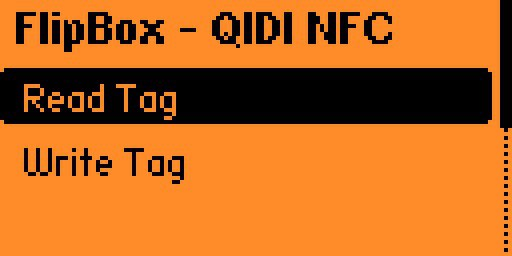
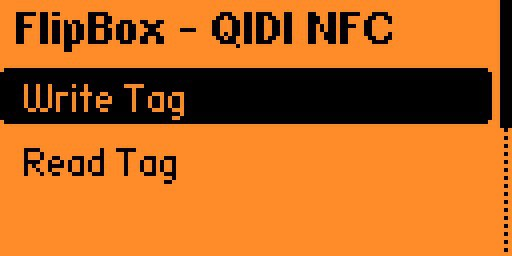
Fix menu order, restore full labels, bump to 0.1.1
- Write Tag first in main menu
- Restore "Material" / "Write Tag" labels in write config
- Bump fap_version 0.1.0 -> 0.1.1

Changed region(s): [[0.0312, 0.5625, 0.375, 0.7188], [0.0312, 0.3125, 0.375, 0.4688]]

diff --git a/scenes/scene_write_cfg.c b/scenes/scene_write_cfg.c
@@ -34,9 +34,9 @@ void flipbox_scene_write_cfg_on_enter(void* context) {
 
     VariableItem* item;
 
-    // Material — OK opens submenu, append ">" to signal that
+    // Material — OK opens submenu, append "..." to signal that
     snprintf(app->text_buf, sizeof(app->text_buf), "%s ...", qidi_materials[app->mat_idx].name);
-    item = variable_item_list_add(list, "Mat", 0, NULL, NULL);
+    item = variable_item_list_add(list, "Material", 0, NULL, NULL);
     variable_item_set_current_value_text(item, app->text_buf);
 
     // Color — same, separate buffer so Material text isn't overwritten
@@ -50,7 +50,7 @@ void flipbox_scene_write_cfg_on_enter(void* context) {
     variable_item_set_current_value_text(item, qidi_manufacturers[app->mfr_idx].name);
 
     // Write button row
-    item = variable_item_list_add(list, "Write", 1, NULL, NULL);
+    item = variable_item_list_add(list, "Write Tag", 1, NULL, NULL);
     variable_item_set_current_value_text(item, ">");
 
     variable_item_list_set_enter_callback(list, cfg_enter_cb, app);

diff --git a/scenes/scene_menu.c b/scenes/scene_menu.c
@@ -7,10 +7,10 @@ typedef enum {
 
 static void menu_cb(void* context, uint32_t index) {
     FlipBoxApp* app = context;
-    if(index == MenuItemRead) {
-        scene_manager_next_scene(app->scene_manager, FlipBoxSceneRead);
-    } else {
+    if(index == MenuItemWrite) {
         scene_manager_next_scene(app->scene_manager, FlipBoxSceneWriteCfg);
+    } else {
+        scene_manager_next_scene(app->scene_manager, FlipBoxSceneRead);
     }
 }
 

diff --git a/CLAUDE.md b/CLAUDE.md
@@ -106,8 +106,11 @@ Support (20-21), TPU (33-34), Other (22,30,32).
   `on_event_handlers`, `on_exit_handlers`) — not a per-scene struct.
 - Correct callback name: `variable_item_list_set_enter_callback` (not `set_selected_item_callback`)
 - `view_dispatcher_enable_queue` is deprecated — do not use
-- `variable_item_set_current_value_text` stores a **pointer**, not a copy — two simultaneously
-  visible items need two distinct buffers (`text_buf` / `text_buf2` in `FlipBoxApp`)
+- `variable_item_set_current_value_text` stores a **pointer**, not a copy — pass string literals
+  or buffers that outlive the scene. In `scene_write_cfg` material/color names are passed as
+  labels (not values) so they point directly into the global `qidi_materials`/`qidi_colors` arrays.
+- VariableItemList column split is **fixed in pixels**: label x=6..73 (67px ≈11 chars), value
+  x=73..115 (42px ≈7 chars), no scrolling. Put long text in the label column, not the value.
 - Flipper display font is ASCII-only — no Unicode
 - In write_cfg: `...` suffix = opens submenu, `>` = executes action (space before `...`: `"%s ..."`)
 - NFC worker uses FuriThread with STACK_SIZE=2KB; `stack_size=4KB` in `application.fam` is for the app main thread
